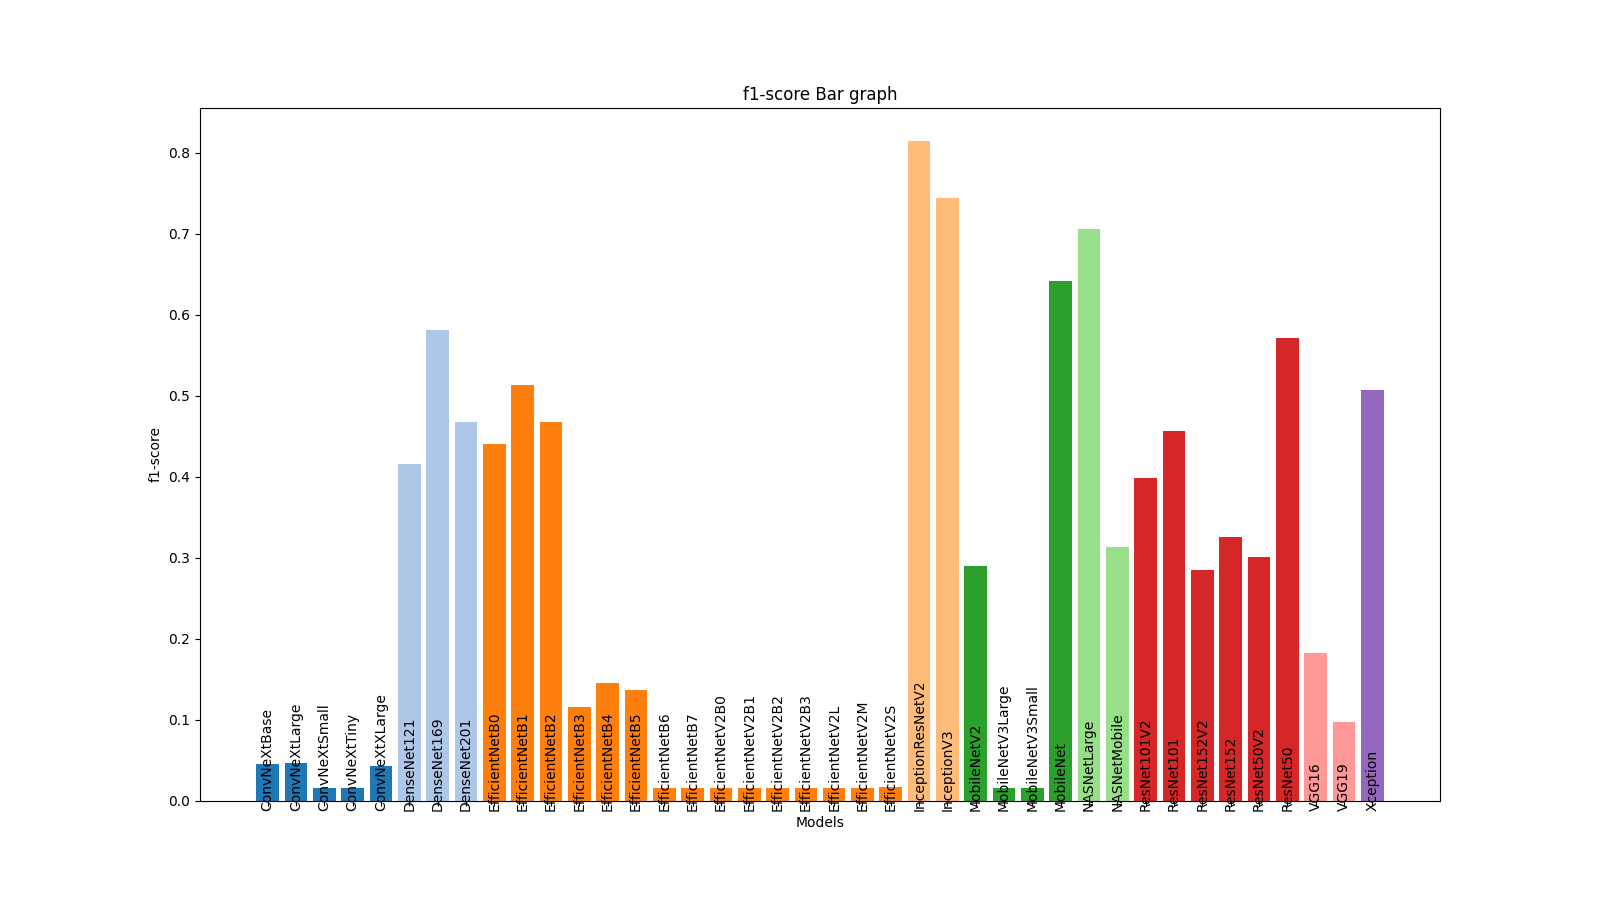
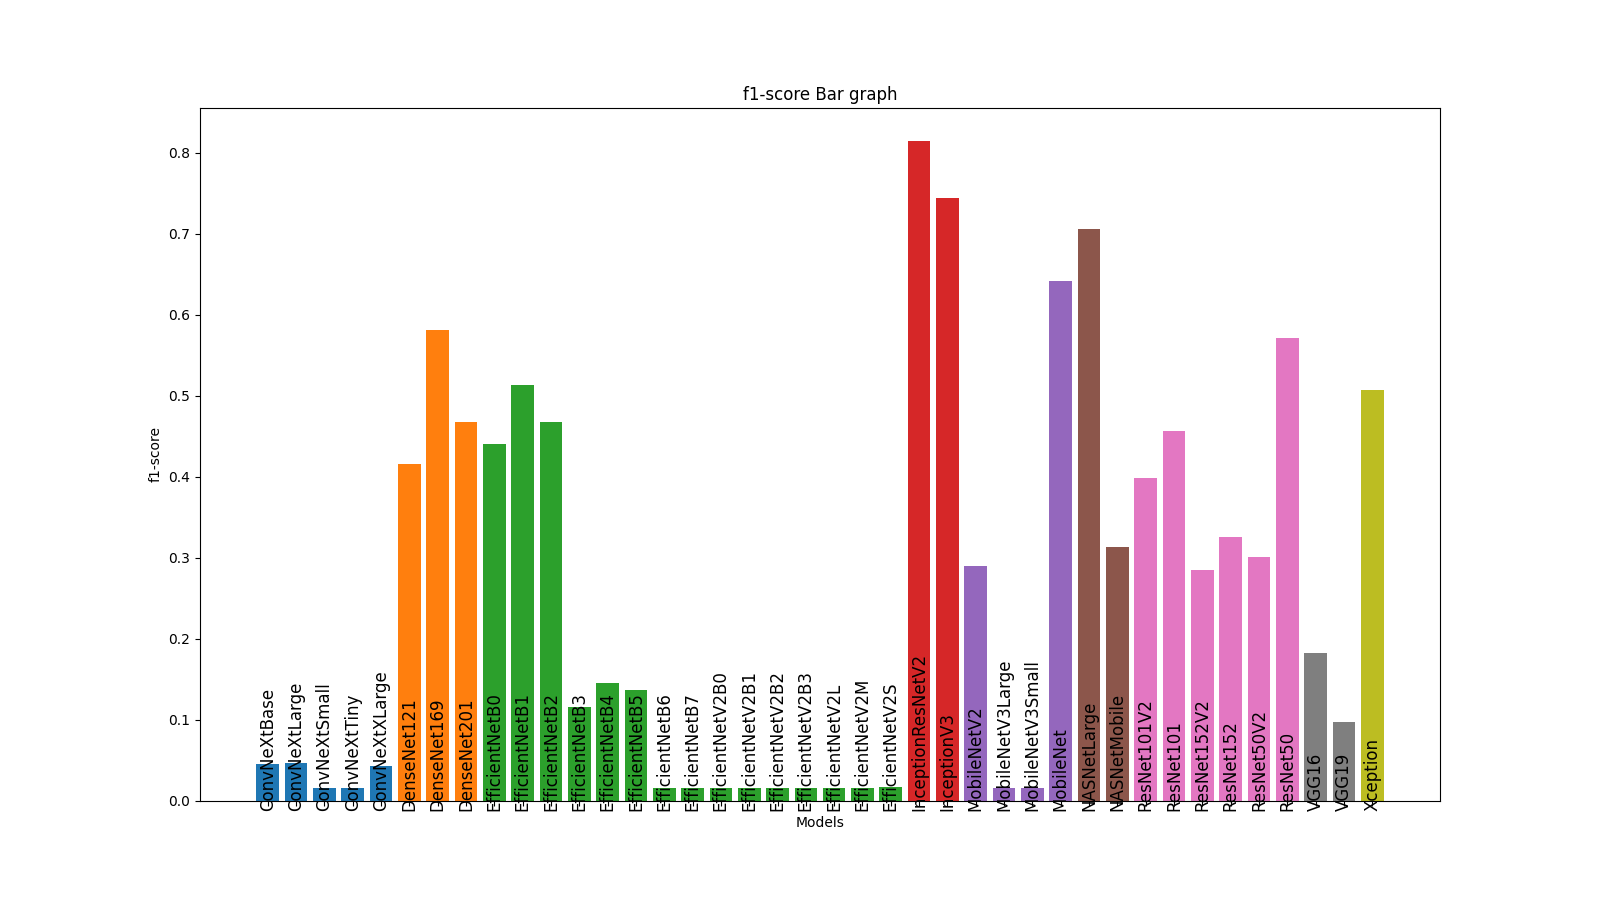
i think this is the last commit for real this time

Changed region(s): [[0.1562, 0.1556, 0.875, 0.9022]]

diff --git a/final/utils.py b/final/utils.py
@@ -82,9 +82,9 @@ def create_bar(metrics, col, path):
         c.append(i)
       
     plt.figure(figsize=(16, 9))
-    plt.bar(cat, val,color=plt.cm.tab20(c))
+    plt.bar(cat, val,color=plt.cm.tab10(c))
 
-    plt.xticks(rotation=90, va="bottom")
+    plt.xticks(rotation=90, va="bottom", fontsize=12)
     plt.xlabel('Models')
     plt.ylabel(f"{col}")
     plt.title(f"{col} Bar graph")
